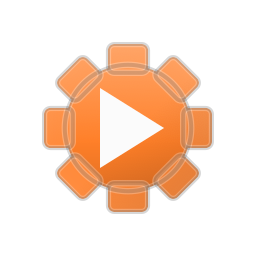
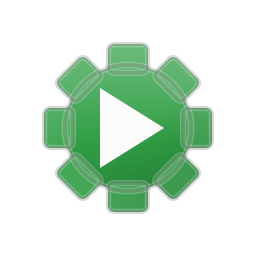
feat: Colour byggsteg green and WikiMusic a soft pink
Give byggsteg its green gear and move WikiMusic from leaf green to a muted
blush pink, then rebuild every SVG, PNG export, the gallery, the manifest,
the contact sheet and the README so the set stays consistent.

🤖 Generated with Codebuff

Changed region(s): [[0.1562, 0.1562, 0.8438, 0.8438]]

diff --git a/index.html b/index.html
@@ -66,7 +66,7 @@
       <h2>byggsteg</h2>
       <p>Readable CI/CD orchestrator: pipelines as Lisp, streamed live</p>
       <p class="files"><a href="svg/byggsteg.svg">svg</a> · <a href="png/byggsteg-512.png">512 png</a>
-        <span class="swatch" style="background:#ff7f28" title="orange #ff7f28"></span></p>
+        <span class="swatch" style="background:#2f9e44" title="clover #2f9e44"></span></p>
     </article>
     <article class="card">
       <img src="png/byggsteg-github-128.png" width="128" height="128" alt="Byggsteg GitHub icon">
@@ -367,7 +367,7 @@
       <h2>WikiMusic</h2>
       <p>Collaborative music wiki built with GNU Artanis and Guile</p>
       <p class="files"><a href="svg/wikimusic.svg">svg</a> · <a href="png/wikimusic-512.png">512 png</a>
-        <span class="swatch" style="background:#4caf50" title="leaf #4caf50"></span></p>
+        <span class="swatch" style="background:#d98aa3" title="blush #d98aa3"></span></p>
     </article>
     <article class="card">
       <img src="png/wip-site-128.png" width="128" height="128" alt="wip-site icon">

diff --git a/tools/glyphs_2.py b/tools/glyphs_2.py
@@ -311,7 +311,7 @@ icon("welkomscherm.el", "welkomscherm.el",
 # 46. A book carrying a note and wiki brackets: music as a shared library.
 icon("wikimusic", "WikiMusic",
      "Collaborative music wiki built with GNU Artanis and Guile",
-     "leaf",
+     "blush",
      [part(rrect(3, 5, 58, 54, 5)),
       part(rrect(3, 5, 12, 54, 5), "light")],
      G(

diff --git a/tools/glyphs_1.py b/tools/glyphs_1.py
@@ -55,7 +55,7 @@ icon("bewaking", "Bewaking",
 # 3. A gear with a play triangle: build stages that run.
 icon("byggsteg", "byggsteg",
      "Readable CI/CD orchestrator: pipelines as Lisp, streamed live",
-     "orange",
+     "clover",
      cog_parts(32, 32, 20, teeth=8),
      G(
          PL("25,22 41,32 25,42", fill=FG),

diff --git a/tools/svgkit.py b/tools/svgkit.py
@@ -65,6 +65,8 @@ ACCENTS = {
     "ochre": "#e08a00",
     "periwinkle": "#6b95d3",
     "storm": "#465a6b",
+    "clover": "#2f9e44",
+    "blush": "#d98aa3",
 }
 
 

diff --git a/README.md b/README.md
@@ -41,7 +41,7 @@ projects sharing a silhouette or a glyph is a build error, not a style note.
 | --- | --- | --- | --- | --- |
 | ![Araneola](png/araneola-64.png) | `araneola` | Araneola | High-performance web crawler and sitemap generator, pure Guile Scheme | `#6961b8` |
 | ![Bewaking](png/bewaking-64.png) | `bewaking` | Bewaking | Encryption, authentication and authorization toolkit for Guile | `#3434c8` |
-| ![byggsteg](png/byggsteg-64.png) | `byggsteg` | byggsteg | Readable CI/CD orchestrator: pipelines as Lisp, streamed live | `#ff7f28` |
+| ![byggsteg](png/byggsteg-64.png) | `byggsteg` | byggsteg | Readable CI/CD orchestrator: pipelines as Lisp, streamed live | `#2f9e44` |
 | ![Byggsteg GitHub](png/byggsteg-github-64.png) | `byggsteg-github` | Byggsteg GitHub | GitHub Actions workflow and action bridging into byggsteg jobs | `#263238` |
 | ![Byggsteg Woodpecker](png/byggsteg-woodpecker-64.png) | `byggsteg-woodpecker` | Byggsteg Woodpecker | Woodpecker CI image that runs byggsteg jobs and reports the outcome | `#f57c00` |
 | ![Carvoeiro Water Fun](png/carvoeiro-water-fun-64.png) | `carvoeiro-water-fun` | Carvoeiro Water Fun | Static site for the water fun park in Carvoeiro, Algarve | `#45a3e6` |
@@ -84,7 +84,7 @@ projects sharing a silhouette or a glyph is a build error, not a style note.
 | ![Veritas](png/veritas-64.png) | `veritas` | Veritas | Guile test framework where a test is a form and the report is a hierarchy | `#1f6f4a` |
 | ![veritas.el](png/veritas.el-64.png) | `veritas.el` | veritas.el | Emacs integration for the Veritas test framework: run, report, navigate | `#6a4fa3` |
 | ![welkomscherm.el](png/welkomscherm.el-64.png) | `welkomscherm.el` | welkomscherm.el | Small, calm, theme-respecting welcome screen for Emacs | `#fb8c00` |
-| ![WikiMusic](png/wikimusic-64.png) | `wikimusic` | WikiMusic | Collaborative music wiki built with GNU Artanis and Guile | `#4caf50` |
+| ![WikiMusic](png/wikimusic-64.png) | `wikimusic` | WikiMusic | Collaborative music wiki built with GNU Artanis and Guile | `#d98aa3` |
 | ![wip-site](png/wip-site-64.png) | `wip-site` | wip-site | Dependency-free maintenance and coming-soon status page | `#e08a00` |
 | ![Wolkenschloss](png/wolkenschloss-64.png) | `wolkenschloss` | Wolkenschloss | Hetzner Cloud infrastructure managed from the REST API | `#6b95d3` |
 | ![wolk-jjba](png/wolk-jjba-64.png) | `wolk-jjba` | wolk-jjba | Personal cloud and server fleet provisioned as a Guile program | `#465a6b` |
